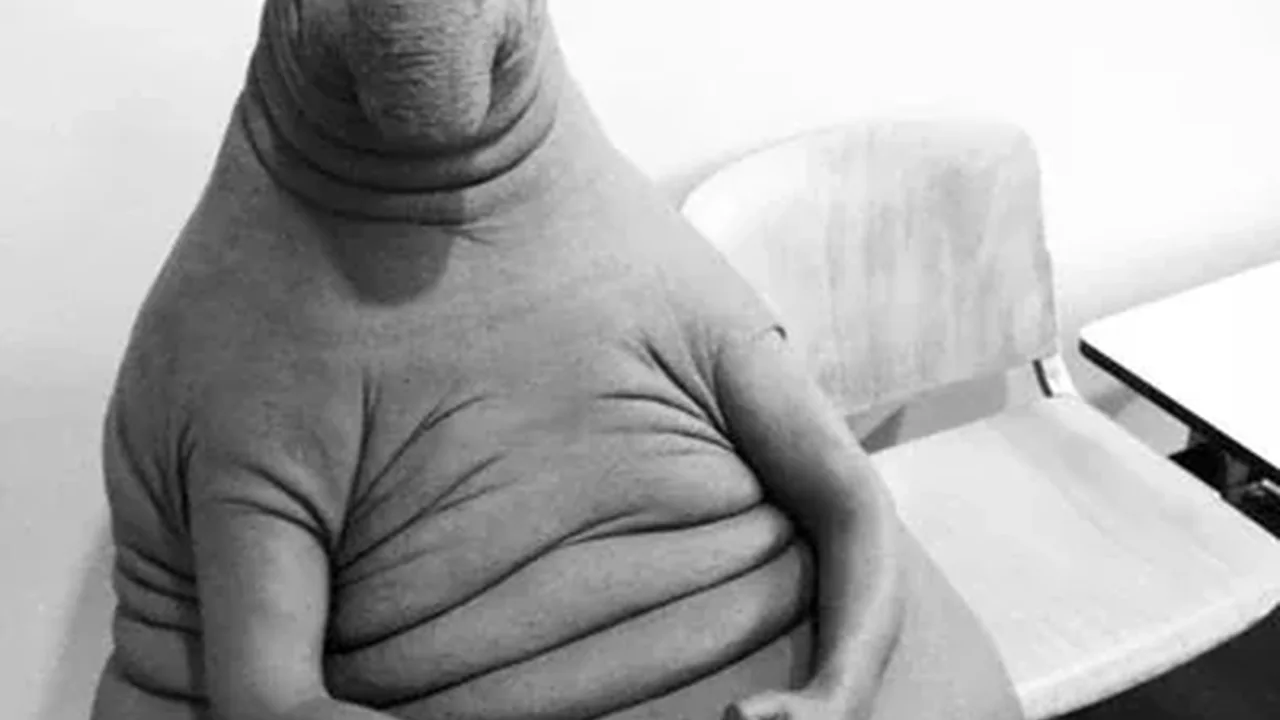
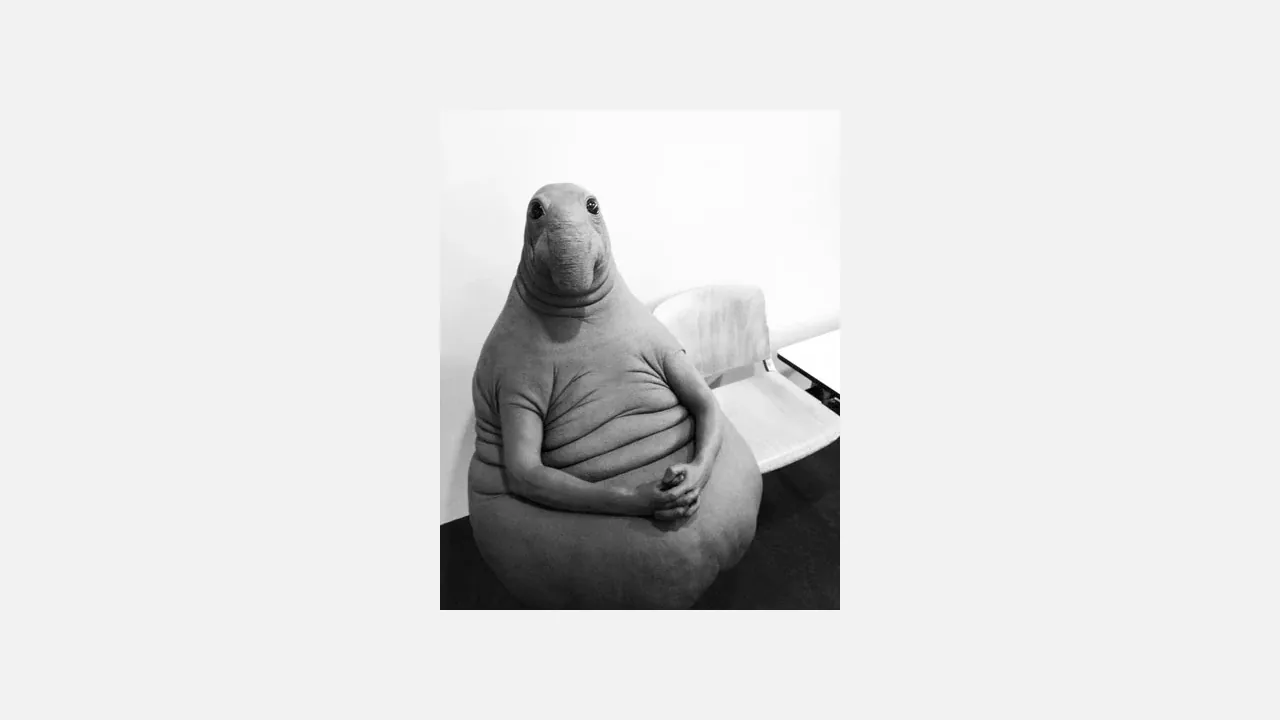
fix(blog): restore walking article links and media placement

diff --git a/content/blog/articles/14102926.md b/content/blog/articles/14102926.md
@@ -2,11 +2,9 @@
 
 Шаги обладают лучшим соотношением потраченных калорий к полученному стрессу. Это значит, что, потратив 300 ккал на шаги, вам будет меньше хотеться жрать, чем если вы потратите 300 ккал в зале или на пробежке. Выгодно, короче. Но есть нюансы. В этом посте я расскажу все детали, связанные с шагами для похудения.
 
-На расход калорий от шагов по большей части влияет лишь только вес. У меня есть схема более точного расчета, но для упрощения ориентируйтесь на такие цифры для 1000 шагов: 65–70 кг: 35 ккал / 90–95 кг: 45 ккал / 110–130 кг: 60 ккал.
-
-Из предыдущего пункта следует вывод, что чем меньше вы весите, тем важнее для вас будет не увеличивать шаги для похудения, а добавлять тренировки (любые).
-
-А тяжеловесов вообще не должно заботить ничего, кроме шагов, потому что если мы возьмем толстячка весом в 110+ (не качка), то в 90% случаев час ходьбы будет тратить для вас почти столько же калорий, как и тренировка в зале, а то и больше. Силовые тоже важны, но в этом посте я отвечаю на конкретный вопрос о шагах.
+- На расход калорий от шагов по большей части влияет лишь только вес. У меня есть схема более точного расчета, но для упрощения ориентируйтесь на такие цифры для 1000 шагов: 65–70 кг: 35 ккал / 90–95 кг: 45 ккал / 110–130 кг: 60 ккал.
+- Из предыдущего пункта следует вывод, что чем меньше вы весите, тем важнее для вас будет не увеличивать шаги для похудения, а добавлять тренировки (любые).
+- А тяжеловесов вообще не должно заботить ничего, кроме шагов, потому что если мы возьмем толстячка весом в 110+ (не качка), то в 90% случаев час ходьбы будет тратить для вас почти столько же калорий, как и тренировка в зале, а то и больше. Силовые тоже важны, но в этом посте я отвечаю на конкретный вопрос о шагах.
 
 Так сколько тогда вешать в штуках? Я выделяю три уровня по количеству шагов.
 
@@ -18,29 +16,29 @@
 
 Базовый минимум абсолютно для всех — 4000 шагов, а лучше 5000 шагов. И только когда вы сможете сделать это частью вашей жизни, можете начинать думать о более высоких материях типа учета калорий, рецептов и пищевых привычек.
 
-![Иллюстрация к материалу «Ходить, чтобы худеть»](/blog/media/14102926/02.webp)
-
 Да, есть исключения, например, я ¯\_(ツ)_/¯ За прошлый месяц я нашагал в среднем 2500 в день. Но одновременно с этим у меня 8 часов велотренировок в неделю + 2 силовые в зале. Вряд ли у вас так же.
 
 ## Уровень 2. Научный консенсус
 
-И нет, это не 10 тыс шагов, меньше. Приведу исследование 2019-го года. Около 1600 женщин в возрасте 70+ снарядили фитнес-трекерами и смотрели, сколько они натопают (предполагая, что они столько и раньше ходили в среднем). Вышло около 5000 шагов в день. Через 4 года посмотрели и посчитали, кто умер.
+И нет, это не 10 тыс шагов, меньше. Приведу [исследование](https://jamanetwork.com/journals/jamainternalmedicine/article-abstract/2734709) 2019-го года. Около 1600 женщин в возрасте 70+ снарядили фитнес-трекерами и смотрели, сколько они натопают (предполагая, что они столько и раньше ходили в среднем). Вышло около 5000 шагов в день. Через 4 года посмотрели и посчитали, кто умер.
 
 Результаты: с увеличением количества шагов от 2700 до 7500 смертность уменьшалась, все, что выше 7500 — дополнительного эффекта не оказывало.
 
 В других исследованиях (коих просто кучи) идеальные цифры крутятся как раз около 7-8 тыс. максимум. И нет ни одного, где более 12 тыс. шагов давало бы хоть какие-то преимущества, кроме потраченных калорий.
 
-Золотая середина = 7500-8500 тыс. шагов. Эту цифру я могу подтвердить и из своей практики работы с людьми.
+Золотая середина = 7500–8500 шагов. Эту цифру я могу подтвердить и из своей практики работы с людьми.
 
 Когда вы читаете советы в интернете по тренировкам, питанию, калориям и прочей чепухе, то они базируются на том, что кроме базового метаболизма, у вас есть еще и адекватная повседневная активность в виде примерно тех же 7-8 тыс шагов.
 
 Этого будет достаточно, чтобы застраховать вас от проблем с сердечно-сосудистой системой, драматической потери мышечной массы в старости и не придется узнавать, кто такой этот дядя:
 
+![Мужчина с косой — иллюстрация к фразе «этот дядя»](/blog/media/14102926/02.webp)
+
 А еще это индикатор. Если при регулярных 7-8 тыс шагов вы никак не можете похудеть один раз и навсегда, скорее всего, у вас проблемы с самыми базовыми принципами питания и пищевого поведения. И, наведя там порядок хотя бы на троечку, вы сразу же стабилизируете вес или начнете плавно его снижать (1-2 кг в мес.) даже без учета калорий.
 
 ## Уровень 3. Активная фаза похудения
 
-![Иллюстрация к материалу «Ходить, чтобы худеть»](/blog/media/14102926/03.webp)
+![Мем: тюлень с человеческим телом сидит на стуле](/blog/media/14102926/03.webp)
 
 Здесь нам надо ответить на простой вопрос. Какое максимальное количество шагов можно ходить, чтобы это все еще было эффективно и не занимало всё свободное время?
 
@@ -50,15 +48,13 @@
 
 Соответственно, если у вас 12 тыс. шагов, и вы считаете, что питание выглядит нормально, но вам не нравится скорость похудения, то скорее всего вы не совсем понимаете, какая адекватная скорость похудения должна быть при таких параметрах и надо менять не действия, а ожидания.
 
-Подробнее об этом — в материале «Сколько времени нужно на похудение?».
+Подробнее об этом — в материале [«Сколько времени нужно на похудение?»](/articles/skolko-vremeni-nuzhno-na-pohudenie).
 
-Дополнительные комментарии:
+## Дополнительные комментарии
 
-У меня не было еще ни одного клиента, кто пожалел бы о покупке дорожки для дома.
-
-Если вы ходите шаги в зале на дорожке, то установите себе максимальный наклон (от 10 до 15 градусов) и подберите темп так, чтобы пульс был во второй зоне (для многих что-то выше 130 ударов).
-
-В 90% случаев будет полезно учитывать шаги, которые вы накрутили во время бега, пилатеса, силовых или любых других тренировок — отдельно. Это исключает двойной учет калорий и убирает путаницу.
+1. У меня не было еще ни одного клиента, кто пожалел бы о покупке дорожки для дома.
+2. Если вы ходите шаги в зале на дорожке, то установите себе максимальный наклон (от 10 до 15 градусов) и подберите темп так, чтобы пульс был во второй зоне (для многих что-то выше 130 ударов).
+3. В 90% случаев будет полезно учитывать шаги, которые вы накрутили во время бега, пилатеса, силовых или любых других тренировок — отдельно. Это исключает двойной учет калорий и убирает путаницу.
 
 Всех обнял, всем попутного ветра и комфортного похудения. До встречи в постах!
 

diff --git a/work/blog-quality-audit-20260926/full-review/walking-20261002.md b/work/blog-quality-audit-20260926/full-review/walking-20261002.md
@@ -1,0 +1,31 @@
+# Полная безопасная проверка: «Ходить, чтобы худеть»
+
+Дата 2026-10-02, ID `14102926`. Доставка ожидается; это не научный pass.
+
+## Источник и семья
+
[1 lines of base64/hex data omitted]
+
+## Безопасные изменения
+
+- Восстановлены исходные три маркированных тезиса и три нумерованных дополнительных комментария; слова не переписаны.
+- «Дополнительные комментарии» оформлены H2.
+- Потерянная исходная ссылка «исследование» восстановлена: JAMA article 2734709; URL доказан фактической ссылкой оригинала, не подобран по общей теме.
+- Название уже упомянутой статьи о сроках стало ссылкой на собственный опубликованный блог.
+- Мужчина с косой перенесён непосредственно после «этот дядя»: прежде стоял перед исключением с велотренировками и оставлял ссылку на картинку без картинки. Исходное изображение не заменено.
+- Два общих alt заменены точными по осмотренным изображениям.
+- Очевидная опечатка единиц «7500-8500 тыс. шагов» → «7500–8500 шагов»: не новый научный диапазон; исходные 7500 и 8500 сохранены, убрано удвоение тысяч, противоречащее соседним 7–8 тыс.
+- Исходная карточка с тюленем сохранена, но больше не обрезает голову: тот же оригинал целиком на 1280×720 с полями. 29260 → 11604 байт. 03.webp/hero не менялись; прежняя карточка сохранена приватно для rollback.
+
+Платформенные VPN/канальные хвосты ранее сняты и не возвращаются. Авторское «Всех обнял…» и intensive CTA сохранены, новая продающая речь не добавлена. «Жрать», «толстячок», «НИ-КОГ-ДА», шутки и исключение автора не выравниваются под нейтральную энциклопедию.
+
+## Только ручной смысловой разбор — не исправлено
+
+- [Первичное исследование Lee 2019](https://pubmed.ncbi.nlm.nih.gov/31141585/) имеет 16741 участницу, а не «около 1600»; средний возраст 72, наблюдение 4,3 года. 7500 — плато ассоциации смертности в этой выборке, не универсальный предел всех преимуществ. Число участников НЕ заменено автономно, это фактура.
+- [Метаанализ Ding 2025](https://pubmed.ncbi.nlm.nih.gov/40713949/) поддерживает значимую пользу около 7000, но различает исходы/кривые; фраза «нет ни одного… больше 12 тыс… преимуществ» и универсальное «застраховать» требуют отдельного решения о силе обобщения. Не переписывались.
+- «Никогда», «абсолютно для всех», 800 ккал, 90% случаев, преимущество шагов над любой тренировкой по голоду/стрессу — авторские сильные обобщения, не проверенная универсальная норма. Не добавлять медицинскую лекцию в тело.
+- Максимальный наклон 10–15 градусов / вторая зона выше 130: границы индивидуальны, а дорожки часто обозначают уклон процентами, не градусами. Действующая формулировка оставлена на ручной разбор.
+
+## Gate
+
[1 lines of base64/hex data omitted]
